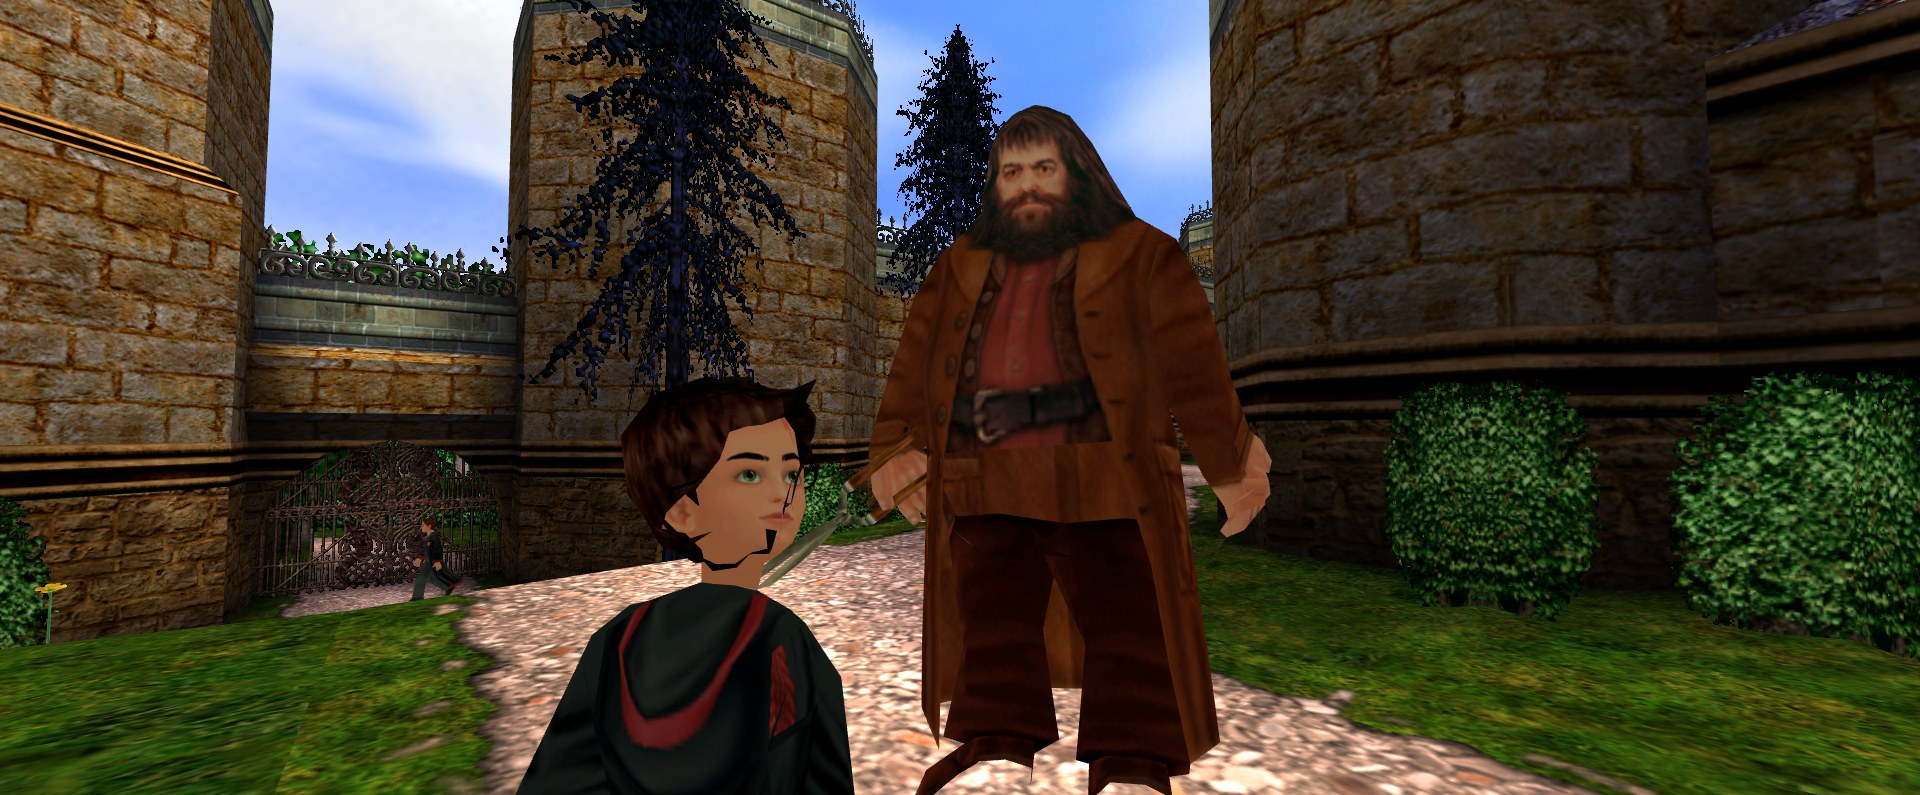
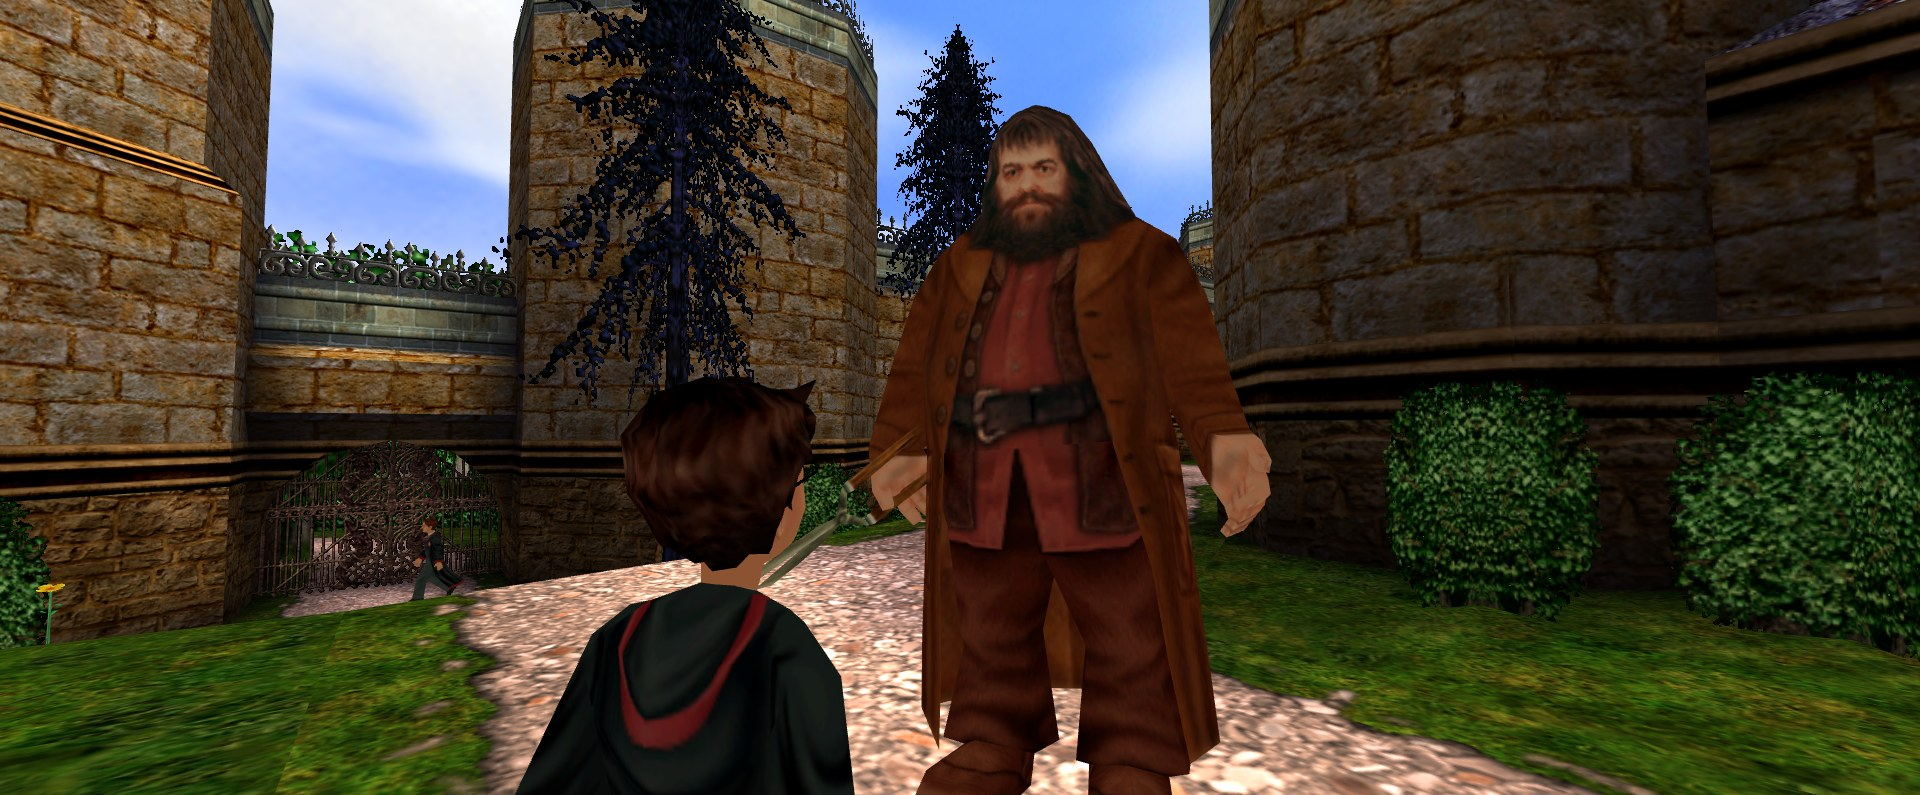
Fix skeletal mesh cull and normal winding (characters were drawn inside out), retake screenshots

diff --git a/kw/Anim/KWSkeletal.cpp b/kw/Anim/KWSkeletal.cpp
@@ -749,8 +749,9 @@ namespace KW
 		auto wedgeVertex = [&](int w) -> int { return useExtWedges ? mesh->ExtWedges[w].Vertex : mesh->Wedges[w].Vertex; };
 		size_t numWedges = useExtWedges ? mesh->ExtWedges.size() : mesh->Wedges.size();
 
-		// Smooth normals from the skinned triangles (URender::DrawLodMesh). The Y mirror in GetMeshCoords flips the
-		// winding, hence the cross product order. bMeshCurvy points them away from the actor's location instead.
+		// Smooth normals from the skinned triangles (URender::DrawLodMesh). The original sums (P0-P1) x (P2-P0) in view
+		// space, whose axes are a reflection of world space (det -1), so in world space that is (P1-P0) x (P2-P0).
+		// bMeshCurvy points them away from the actor's location instead.
 		normals.clear();
 		normals.resize(verts.size(), vec3(0.0f));
 		for (const MeshFace& face : mesh->Faces)
@@ -760,7 +761,7 @@ namespace KW
 			int i0 = wedgeVertex(face.Indices[0]), i1 = wedgeVertex(face.Indices[1]), i2 = wedgeVertex(face.Indices[2]);
 			if (i0 >= (int)verts.size() || i1 >= (int)verts.size() || i2 >= (int)verts.size())
 				continue;
-			vec3 n = cross(verts[i2] - verts[i0], verts[i1] - verts[i0]);
+			vec3 n = cross(verts[i1] - verts[i0], verts[i2] - verts[i0]);
 			normals[i0] += n;
 			normals[i1] += n;
 			normals[i2] += n;
@@ -852,9 +853,11 @@ namespace KW
 
 			// DrawLodMesh only draws faces turned towards the viewer unless they're two-sided. Without this the
 			// front and back of thin props (the classroom blackboards: two coplanar quads) z-fight triangle by triangle.
+			// Same face normal as above: the original's view-space test (normal . P0) * Mirror < 0 keeps the faces whose
+			// world-space (P1-P0) x (P2-P0) points at the viewer.
 			if (!(renderflags & PF_TwoSided))
 			{
-				vec3 faceNormal = cross(vertices[2].Point - vertices[0].Point, vertices[1].Point - vertices[0].Point);
+				vec3 faceNormal = cross(vertices[1].Point - vertices[0].Point, vertices[2].Point - vertices[0].Point);
 				if (dot(faceNormal, frame->ViewLocation.xyz() - vertices[0].Point) <= 0.0f)
 					continue;
 			}

diff --git a/docs/re/lighting.md b/docs/re/lighting.md
@@ -1,14 +1,23 @@
 # Mesh lighting
 
 How HP1 lights meshes (characters and props), from Render.dll. Ported in `kw/KWMeshLight.cpp`, used by
-`KW::DrawSkeletalMesh` (`kw/Anim/KWSkeletal.cpp`). Lightmapped BSP surfaces are SurrealEngine's and not covered here.
+`KW::DrawSkeletalMesh` (`kw/Anim/KWSkeletal.cpp`). Lightmapped BSP surfaces are SurrealEngine's and not covered here; note that SurrealEngine's surface lighting ignores HP1's
+`Actor.LightSource` (`LD_Point`, `LD_Plane` = parallel light, `LD_Ambient` = all directions) and `LightRadiusInner`.
+Outdoor maps light with them (Lev2_Quid1: two `LD_Plane` lights at brightness 80, radius 255), which is why the
+Quidditch pitch renders too dark.
 
 ## Drawing (URender::DrawLodMesh, Render.dll 0x10B0FF00)
 
 - Vertex normals: the sum of the face normals of every face using the vertex, normalized as `n / sqrt(|n|² + 0.001)`
   (normals that cancel stay near zero; there is no fallback direction). `bMeshCurvy`: the normal points from the
   actor's location to the vertex instead.
-- Faces are back-face culled unless their material is `PF_TwoSided`. Thin props are built as two coplanar quads, one
+- Faces are back-face culled unless their material is `PF_TwoSided`. The test runs in view space: with face vertices
+  P0, P1, P2 it computes `n = (P0-P1) x (P2-P0)` and draws the face when `(n . P0) * Mirror < 0` (the scene node's
+  Mirror, -1 in mirror reflections, which also swaps the drawing order). View axes (X right, Y down, Z forward) are a
+  reflection of world axes (X forward, Y right, Z up), which turns the cross product around: in world space the
+  drawn faces are those whose `(P1-P0) x (P2-P0)` points at the viewer, and the vertex normals are sums of that same
+  vector. Getting this backwards draws the inside of every closed mesh (faces seen through the backs of heads) and
+  lights characters from the wrong side. Thin props are built as two coplanar quads, one
   per side (the classroom `TransBlackboard`: vertices 0-3 front, 4-7 back). Without the cull they z-fight triangle by
   triangle, which looks like a diagonal split between two differently lit halves.
 - `PF_Unlit` faces get a flat grey: `clamp(AmbientGlow/256 + ScaleGlow/2, 0, 1)`. Zone 0 is not unlit; an actor

diff --git a/ROADMAP.md b/ROADMAP.md
@@ -203,6 +203,10 @@ channels) and particle effects.
       lights, line of sight, fades), light colours and LightType effects, linear falloff with LightRadiusInner, diffuse +
       specular per vertex, and back-face culling of skeletal meshes. Fixes the classroom blackboards' diagonal split
       (front and back quads z-fought). Not yet compared side by side with the original
+- [x] Skeletal mesh back-face cull and vertex normals had the winding backwards (the original tests in view space, a
+      reflection of world space): every character was drawn inside out and lit from behind ([docs/re/lighting.md](docs/re/lighting.md))
+- [ ] BSP surface lighting for HP1's `LightSource` (`LD_Plane` parallel, `LD_Ambient`) and `LightRadiusInner`:
+      SurrealEngine ignores them, outdoor maps lit by them (the Quidditch pitch) are too dark. Needs Render.dll's light map code
 - [ ] Bugs of the original to fix, not reproduce: [docs/re/original_bugs.md](docs/re/original_bugs.md)
 - [x] ImpactSoundSet, SoundContainer, ClipMarker, LocationID: Engine.dll has no native code for them, only boilerplate;
       their script classes are enough ([docs/re/native_classes.md](docs/re/native_classes.md))
